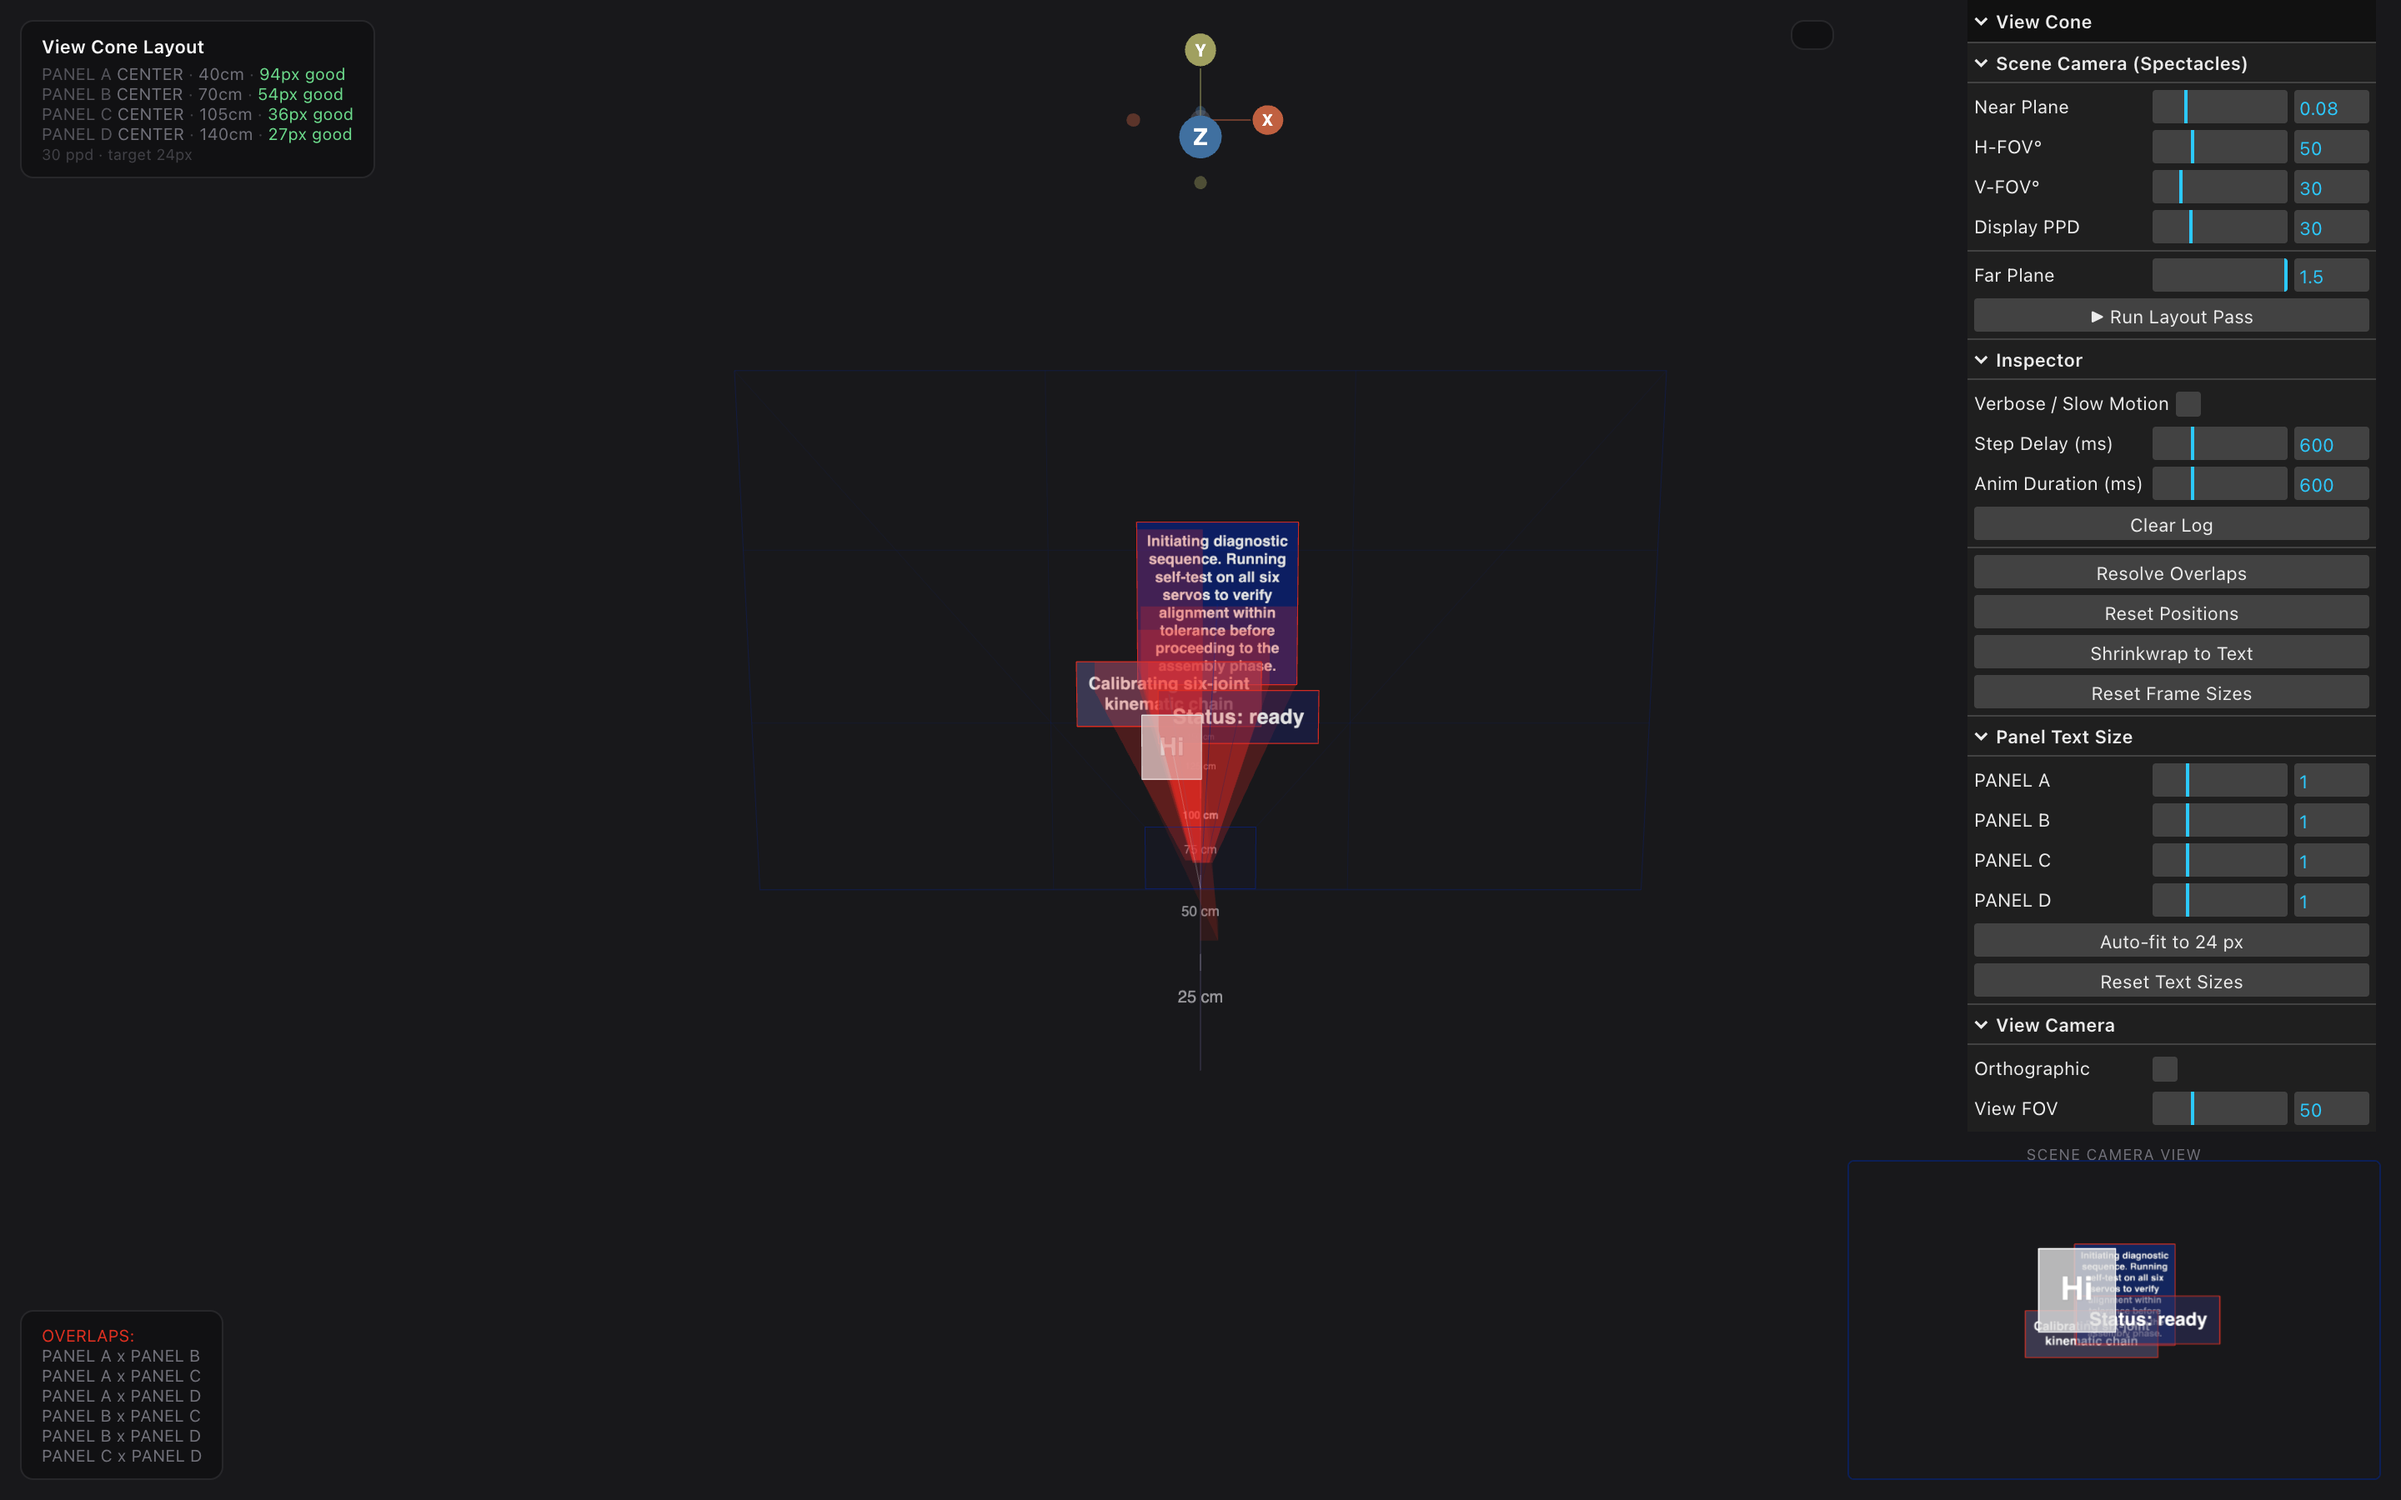
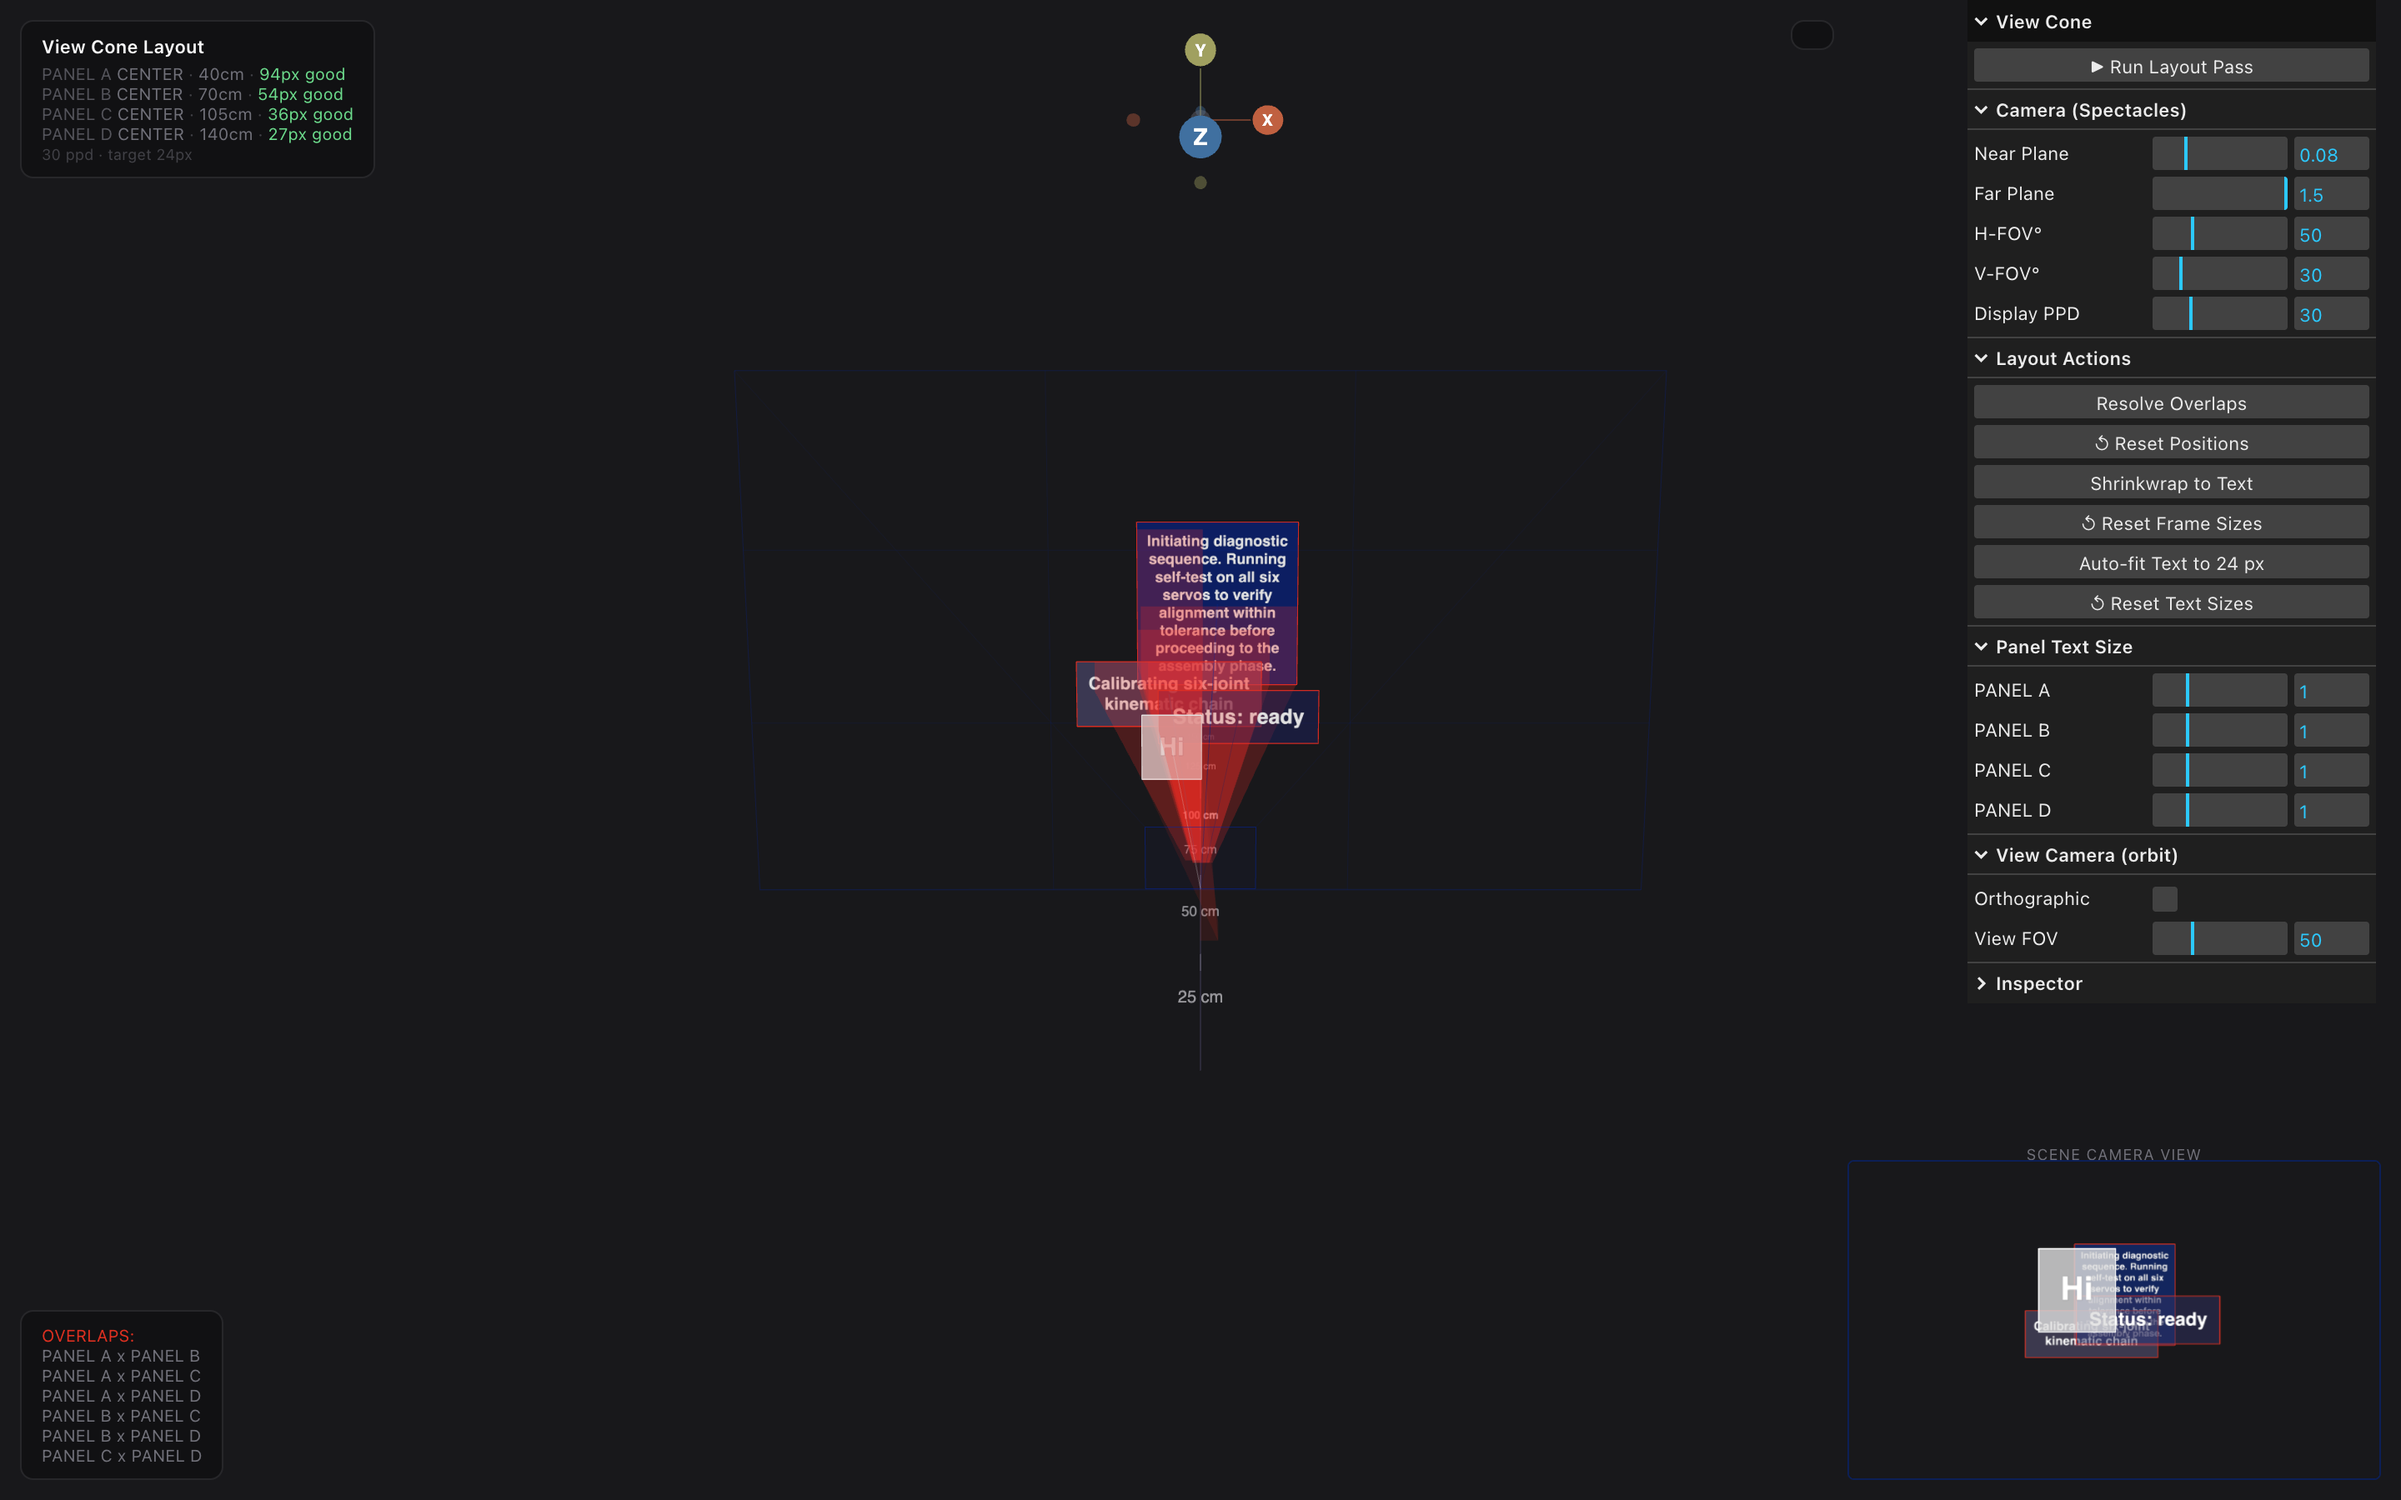
Demo: reorganize GUI into ergonomic, logical groups
Top-down read order now follows the natural workflow:
  1. ▶ Run Layout Pass (marquee — primary action)
  2. Camera (Spectacles)  — every wearer-eye intrinsic, including Far
  3. Layout Actions       — every do/undo pair adjacent, ↺ marks reverse
  4. Panel Text Size      — fine-grained per-panel sliders
  5. View Camera (orbit)  — relabeled to make clear it's NOT the wearer
  6. Inspector            — collapsed; expand for verbose / slow-mo / log

Far Plane no longer hangs at root level next to action buttons. The
six all-panels actions live in one Layout Actions folder instead of
being half at root and half in Panel Text Size.

Changed region(s): [[0.8125, 0.0311, 1.0, 0.7778]]

diff --git a/packages/view-cone-layout/demo/index.html b/packages/view-cone-layout/demo/index.html
@@ -1078,11 +1078,41 @@ const params = {
 };
 const gui = new GUI({ title: 'View Cone' });
 
-const camFolder = gui.addFolder('Scene Camera (Spectacles)');
+// textControllers populated when we build the per-panel folder below.
+// Defined here so guiOp's closure can reference it before that point.
+const textControllers = [];
+const refreshTextSliders = () => {
+  for (const { panel, ctl, proxy } of textControllers) {
+    proxy.scale = panel.textScale;
+    ctl.updateDisplay();
+  }
+};
+const guiOp = (name, args) => async () => {
+  const { done } = ops[name].apply(ctx, args);
+  await done;
+  refreshTextSliders();
+};
+
+// 1. Marquee — the canonical view-aware layout pass.
+gui.add({ pass: async () => {
+  await runSequence(ctx, [
+    { op: 'fitReadability', args: { targetPx: READABILITY_TARGET_PX } },
+    { op: 'shrinkwrapAll' },
+    { op: 'resolveOverlaps' },
+  ]);
+  refreshTextSliders();
+} }, 'pass').name('▶ Run Layout Pass');
+
+// 2. Camera (Spectacles) — every intrinsic of the simulated wearer's eye.
+const camFolder = gui.addFolder('Camera (Spectacles)');
 camFolder.add(cam, 'near', 0.01, 0.3, 0.01).name('Near Plane').onChange(v => {
   NEAR_PLANE = v;
   buildConeOutlines(params.coneDepth);
   updateSceneCamera();
+});
+camFolder.add(params, 'coneDepth', 0.3, 1.5, 0.05).name('Far Plane').onChange(v => {
+  buildConeOutlines(v);
+  buildDepthRuler(v);
 });
 camFolder.add(cam, 'hFov', 20, 120, 1).name('H-FOV°').onChange(v => {
   H_FOV = v;
@@ -1095,70 +1125,31 @@ camFolder.add(cam, 'vFov', 15, 90, 1).name('V-FOV°').onChange(v => {
   updateSceneCamera();
 });
 camFolder.add(cam, 'ppd', 10, 80, 1).name('Display PPD');
-gui.add(params, 'coneDepth', 0.3, 1.5, 0.05).name('Far Plane').onChange(v => {
-  buildConeOutlines(v);
-  buildDepthRuler(v);
-});
-// All buttons delegate to ops. Per-panel text-scale sliders bypass the
-// registry (they're a continuous controller, not a discrete action), but
-// the slider proxies refresh after any op that touches textScale so the
-// GUI stays in sync.
-const refreshTextSliders = () => {
-  for (const { panel, ctl, proxy } of textControllers) {
-    proxy.scale = panel.textScale;
-    ctl.updateDisplay();
-  }
-};
 
-const guiOp = (name, args) => async () => {
-  const { done } = ops[name].apply(ctx, args);
-  await done;
-  refreshTextSliders();
-};
+// 3. Layout Actions — every named op that operates on all panels, paired with
+//    its inverse so do/undo are always adjacent.
+const actionsFolder = gui.addFolder('Layout Actions');
+actionsFolder.add({ a: guiOp('resolveOverlaps') }, 'a').name('Resolve Overlaps');
+actionsFolder.add({ a: guiOp('resetPositions') }, 'a').name('↺ Reset Positions');
+actionsFolder.add({ a: guiOp('shrinkwrapAll') }, 'a').name('Shrinkwrap to Text');
+actionsFolder.add({ a: guiOp('setUniformFrames', { wCm: DEFAULT_FRAME_SIZE_CM.w, hCm: DEFAULT_FRAME_SIZE_CM.h }) },
+  'a').name('↺ Reset Frame Sizes');
+actionsFolder.add({ a: guiOp('fitReadability', { targetPx: READABILITY_TARGET_PX }) },
+  'a').name(`Auto-fit Text to ${READABILITY_TARGET_PX} px`);
+actionsFolder.add({ a: guiOp('resetTextScale') }, 'a').name('↺ Reset Text Sizes');
 
-gui.add({ pass: async () => {
-  await runSequence(ctx, [
-    { op: 'fitReadability', args: { targetPx: READABILITY_TARGET_PX } },
-    { op: 'shrinkwrapAll' },
-    { op: 'resolveOverlaps' },
-  ]);
-  refreshTextSliders();
-} }, 'pass').name('▶ Run Layout Pass');
-
-const inspectFolder = gui.addFolder('Inspector');
-inspectFolder.add(inspect, 'verbose').name('Verbose / Slow Motion');
-inspectFolder.add(inspect, 'stepDelayMs', 0, 2000, 50).name('Step Delay (ms)');
-inspectFolder.add(inspect, 'animDurationMs', 0, 2000, 50).name('Anim Duration (ms)');
-inspectFolder.add({ clear: () => {
-  const el = document.getElementById('ops-log');
-  if (el) el.innerHTML = '';
-} }, 'clear').name('Clear Log');
-
-gui.add({ resolve: guiOp('resolveOverlaps') }, 'resolve').name('Resolve Overlaps');
-gui.add({ reset: guiOp('resetPositions') }, 'reset').name('Reset Positions');
-gui.add({ shrinkwrap: guiOp('shrinkwrapAll') }, 'shrinkwrap').name('Shrinkwrap to Text');
-gui.add({ resetFrames: guiOp('setUniformFrames', { wCm: DEFAULT_FRAME_SIZE_CM.w, hCm: DEFAULT_FRAME_SIZE_CM.h }) },
-  'resetFrames').name('Reset Frame Sizes');
-
-// ─── Per-panel text size sliders + readability ops ───────────────────
+// 4. Panel Text Size — fine-grained per-panel scale sliders.
 const textFolder = gui.addFolder('Panel Text Size');
-const textControllers = [];
 for (const p of panels) {
   const proxy = { scale: 1.0 };
   const ctl = textFolder.add(proxy, 'scale', 0.3, 3.0, 0.05).name(p.name);
   ctl.onChange(v => p.setTextScale(v));
   textControllers.push({ panel: p, ctl, proxy });
 }
-textFolder.add({ fit: guiOp('fitReadability', { targetPx: READABILITY_TARGET_PX }) },
-  'fit').name(`Auto-fit to ${READABILITY_TARGET_PX} px`);
-textFolder.add({ reset: guiOp('resetTextScale') }, 'reset').name('Reset Text Sizes');
 
-// Orbit camera controls
-const viewFolder = gui.addFolder('View Camera');
-const viewParams = {
-  ortho: false,
-  fov: camera.fov,
-};
+// 5. View Camera — the orbit camera you inspect the scene with (NOT the wearer's eye).
+const viewFolder = gui.addFolder('View Camera (orbit)');
+const viewParams = { ortho: false, fov: camera.fov };
 viewFolder.add(viewParams, 'ortho').name('Orthographic').onChange(v => {
   if (v) {
     const d = camera.position.length();
@@ -1178,6 +1169,17 @@ viewFolder.add(viewParams, 'fov', 20, 120, 1).name('View FOV').onChange(v => {
   camera.fov = v;
   camera.updateProjectionMatrix();
 });
+
+// 6. Inspector — verbose mode + slow-motion pacing for debugging ops.
+const inspectFolder = gui.addFolder('Inspector');
+inspectFolder.add(inspect, 'verbose').name('Verbose / Slow Motion');
+inspectFolder.add(inspect, 'stepDelayMs', 0, 2000, 50).name('Step Delay (ms)');
+inspectFolder.add(inspect, 'animDurationMs', 0, 2000, 50).name('Anim Duration (ms)');
+inspectFolder.add({ clear: () => {
+  const el = document.getElementById('ops-log');
+  if (el) el.innerHTML = '';
+} }, 'clear').name('Clear Log');
+inspectFolder.close();
 
 // Initial build
 buildConeOutlines(params.coneDepth);
